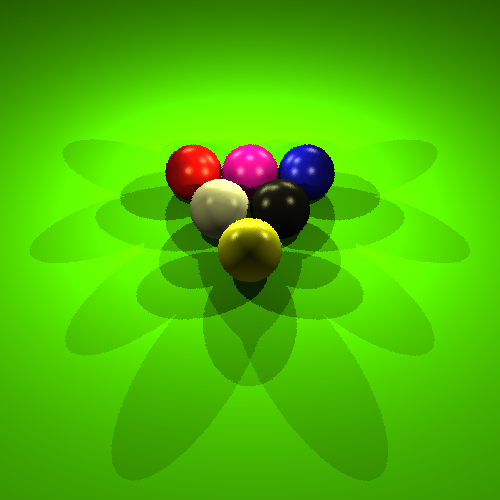
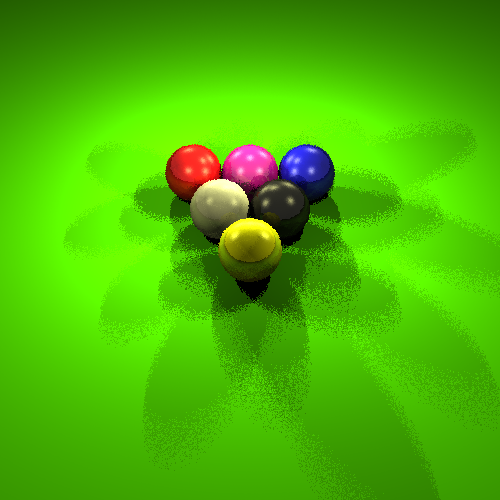
fixed shadows for transparent objects

Changed region(s): [[0.12, 0.24, 1.0, 1.0], [0.06, 0.42, 0.15, 0.54], [0.12, 0.27, 0.21, 0.36]]

diff --git a/Ray-Tracing/src/RayTrace/Scene.java b/Ray-Tracing/src/RayTrace/Scene.java
@@ -44,7 +44,8 @@ class Scene{
             return rgb;
         }
         Vector dir1, dir2;
-        int min_ind=-1, cnt=0;
+        int min_ind=-1;
+        double cnt=0;
         double temp, min_val=Double.POSITIVE_INFINITY, alpha;
         double r=0, g=0, b=0, r_spec=0, g_spec=0, b_spec=0, reflect_r=0, reflect_g=0, reflect_b=0;
         double bg_r=this.bg_r, bg_g=this.bg_g, bg_b=this.bg_b;
@@ -71,10 +72,8 @@ class Scene{
             normal = normal.prod(1/normal.size()); //make sure it is normalized
             mat = this.surfs.get(min_ind).mat;
             trans = mat.trans;
+            double light_val,light_total=1,temp2;
             double bg_rgb[], reflect_rgb[];
-            double light_trans = 1; 
-            double trans_total =0; 
-            double light_temp; 
             if(trans < 1){
                 bg_rgb = trace(new Ray(pos, camray.direct), rec-1);
                 bg_r = bg_rgb[0];
@@ -104,26 +103,37 @@ class Scene{
                 rect = new Rect(pos,dir1,dir2,lightray.light.radius,this.rays_num,lightray.light);
                 for(int x=0;x<this.rays_num;x++) {
                     for(int y=0;y<this.rays_num;y++) {
-                        // temp = Double.POSITIVE_INFINITY; 
-                        light_temp = surfs.get(min_ind).intersect(rect.raygrid[x][y]); 
-                        for(int m=0;m<this.surfs.size();m++) { 
-                            //temp = Math.min(this.surfs.get(m).intersect(rect.raygrid[x][y]),temp); 
-                          temp = this.surfs.get(m).intersect(rect.raygrid[x][y]); 
-                          if(temp >= 0 && temp < light_temp) { 
-                            light_trans*= this.surfs.get(m).mat.trans; 
-                          } 
-                        } 
-                        if(light_trans > 0.001) {  //surface isn't obscured from light source 
-                            cnt++; 
-     
-                        } 
-                        trans_total += light_trans; 
-                        light_trans = 1; 
-                    } 
+                        temp2 = Double.POSITIVE_INFINITY;
+                        light_val = this.surfs.get(min_ind).intersect(rect.raygrid[x][y]);
+                        for(int m=0;m<this.surfs.size();m++) {
+                            temp = this.surfs.get(m).intersect(rect.raygrid[x][y]);
+                            if(temp >= 0) {
+                            	temp2 = Math.min(temp2, temp);
+                                if( temp < light_val) {
+                                	light_total*= this.surfs.get(m).mat.trans;
+//                                	if(light_total > 0)
+//                                		System.out.println(light_total);
+                                	if(light_total == 0) {
+                                		break;
+                                	}
+                                }
+                            }
+
+                        }
+
+                        if(new Vector(camray.getPos(min_val),rect.raygrid[x][y].getPos(light_val)).size() > 0.001)  //object's surface is obscured from light source by the object itself
+                        	light_total*= this.surfs.get(min_ind).mat.trans;
+                       
+                        
+                        cnt+= light_total;
+                       
+                        light_total = 1;
+                    }
                 }
                 temp = (((double)(cnt)+(rays_num2-(double)(cnt))*((double)1.0-lightray.light.shadow_intens))/rays_num2);
-                temp = Math.abs(temp*normal.dot(lightray.direct))*trans_total/(rays_num2); ;
-                //System.out.println(temp);
+     
+                temp = Math.abs(temp*normal.dot(lightray.direct));
+              
                 r += lightray.light.r*temp;
     //        					lightInt[ind] /= 2;
                 //maxlight[0] = Math.max(maxlight[0], lightInt[ind]);
@@ -166,11 +176,12 @@ class Scene{
     public void Render(byte[] rgbData, int imageWidth,int imageHeight) {
         int i=0, j=0, si=0, sj=0;
         double[] lightInt = new double[rgbData.length];
-        double[] lightInt_spec = new double[rgbData.length];
-        int[] ignore = new int[this.surfs.size()];
+       // double mod=0; //need a better name
         Vector camleft = this.cam.look_v.cross(this.cam.up); //the "left direction" of the camera.
         camleft = camleft.prod(1/camleft.size()); //normalize camleft
+       // Vector pixelCord= null; //the coordinate of the pixel (bottom left corner for now, no supersampling yet)
         Vector p_0 = this.cam.look_v.prod(this.cam.screen_dist);  //the vector to pixel[0,0]
+        //mod = this.cam.look.minus(this.cam.pos).size();
         p_0 = p_0.plus(camleft.prod((double)(0.5*this.cam.screen_width)));
         int perc_pixs=imageHeight*imageWidth/100;
         int pixs=0;
@@ -179,10 +190,17 @@ class Scene{
         Vector j_step = camleft.prod((double)((-this.cam.screen_width)/((double)imageWidth*sample_lev))); 
         Vector i_step = this.cam.up.prod((double)((screen_height)/((double)imageHeight*sample_lev))); 
         Ray camray = null;
+        Ray lightray = null;
+        double min_val=Double.POSITIVE_INFINITY;
+        double temp = 0;
+        double[] maxlight =new double[3];
+        Vector dir1,dir2;
+        Rect rect;
+        Vector normal=null;
+        Double alpha =0.0;
+        Vector returning_ray;
+        int cnt=0;
         Random rand = new Random();
-       
-        
-        
         
         for(i=0;i<imageHeight;i++) {
         	for(j=0;j<imageWidth;j++) {
@@ -197,11 +215,6 @@ class Scene{
                         lightInt[ind+2] += rgb[2];
                         
                         
-                    	camray = new Ray(this.cam.pos,p_0.plus(j_step.prod((double)j*sample_lev+sj+rand.nextDouble()).plus(i_step.prod((double)i*sample_lev+si+rand.nextDouble()))));
-                    	ray_cast(camray,lightInt,lightInt_spec,ind,1,ignore);
-                    	for(int ig=0;ig< this.surfs.size();ig++) {
-                    		ignore[ig] = 0;
-                    	}
                     }
                 }
                 pixs++;
@@ -211,22 +224,7 @@ class Scene{
                 lightInt[ind+1] /= sample_lev2;
                 lightInt[ind+2] /=  sample_lev2;
             }
-                lightInt[ind] /= sample_lev*sample_lev;
-                lightInt[ind+1] /= sample_lev*sample_lev;
-                lightInt[ind+2] /=  sample_lev*sample_lev;
-                lightInt_spec[ind] /= sample_lev*sample_lev;
-                lightInt_spec[ind+1] /= sample_lev*sample_lev;
-                lightInt_spec[ind+2] /=  sample_lev*sample_lev;
-        	}
         }
-                    	
-                    	
-      System.out.println(this.bg_b);
-      
-       for(int k=0; k< rgbData.length;k++) {
-    		   rgbData[k] =(byte) Math.min(255,((1*lightInt[k])+lightInt_spec[k]));
-
-       }
         System.out.println('.');
        for(int k=0; k< rgbData.length;k++){
            rgbData[k] =(byte) (255*(Math.min(1, lightInt[k])));
@@ -234,118 +232,4 @@ class Scene{
       
     }
     
-        
-public void ray_cast(Ray camray, double[] lightInt,double[] lightInt_spec,int ind,double transp,int[] ignore) {
-	
-	double r=0, g=0, b=0, r_spec=0, g_spec=0, b_spec=0;
-   	double temp = 0,min_val =Double.POSITIVE_INFINITY;;
-    int min_ind=-1;
-    Ray lightray = null;
-    Vector dir1,dir2;
-    Rect rect;
-    Vector normal=null;
-    Double alpha =0.0;
-    Vector returning_ray;
-    int cnt=0;
-        
-    for(int k=0;k< this.surfs.size();k++) {
-        temp = this.surfs.get(k).intersect(camray);
-        if(temp >= 0 && temp < min_val && ignore[k] == 0) {
-            min_ind = k;
-            min_val = temp;
-        }
-    }
-
-    if(min_ind > -1) {
-    	
-    	//adding transparency color
-    	if(this.surfs.get(min_ind).mat.trans > 0) {
-    		ignore[min_ind] = 1;
-    		ray_cast(camray,lightInt,lightInt_spec,ind,transp*this.surfs.get(min_ind).mat.trans,ignore);
-    		ignore[min_ind] = 0;
-    	}
-        normal = this.surfs.get(min_ind).normal(camray.direct.prod(min_val).plus(camray.src));
-        normal = normal.prod(1/normal.size()); //make sure it is normalized
-
-        for(int k=0; k<this.lights.size();k++) {
-        	
-            lightray = new Ray(this.lights.get(k).pos, new Vector(this.lights.get(k).pos,camray.getPos(min_val)),this.lights.get(k));
-            returning_ray = camray.direct.minus(normal.prod(normal.dot(camray.direct)));
-            returning_ray = normal.prod(-normal.dot(camray.direct)).plus(returning_ray);
-            returning_ray = returning_ray.prod(1/returning_ray.size());
-            alpha = returning_ray.dot(lightray.direct);      
-            alpha = Math.pow(Math.abs(alpha), this.surfs.get(min_ind).mat.phong);        
-            dir1 = lightray.direct.getPerp();
-            dir2 = lightray.direct.cross(dir1);
-            rect = new Rect(camray.getPos(min_val),dir1,dir2,lightray.light.radius,this.rays_num,lightray.light);
-            double light_trans = 1;
-            double trans_total =0;
-            double light_temp;
-            
-            for(int x=0;x<this.rays_num;x++) {
-                for(int y=0;y<this.rays_num;y++) {
-                   // temp = Double.POSITIVE_INFINITY;
-                    light_temp = surfs.get(min_ind).intersect(rect.raygrid[x][y]);
-                    for(int m=0;m<this.surfs.size();m++) {
-                        //temp = Math.min(this.surfs.get(m).intersect(rect.raygrid[x][y]),temp);
-                    	temp = this.surfs.get(m).intersect(rect.raygrid[x][y]);
-                    	if(temp >= 0 && temp < light_temp) {
-                    		light_trans*= this.surfs.get(m).mat.trans;
-                    	}
-                    }
-                    if(light_trans > 0.001) {  //surface isn't obscured from light source
-                        cnt++;
-
-                    }
-                    trans_total += light_trans;
-                    light_trans = 1;
-                }
-            }
-            
-            temp = (double) this.rays_num*this.rays_num;
-            temp = (((double)(cnt)+(temp-(double)(cnt))*((double)1.0-lightray.light.shadow_intens))/temp);
-            temp = Math.abs(temp*normal.dot(lightray.direct))*trans_total/((double)this.rays_num*this.rays_num);
-            //System.out.println(temp);
-            
-            r += lightray.light.r*temp;
-            g += lightray.light.g*temp;
-            b += lightray.light.b*temp;
-
-            temp = (double) this.rays_num*this.rays_num;
-            temp = (double)cnt/temp;
-            r_spec += lightray.light.spec_intens*lightray.light.r*alpha*temp;
-            g_spec += lightray.light.spec_intens*lightray.light.g*alpha*temp;
-            b_spec += lightray.light.spec_intens*lightray.light.b*alpha*temp;
-
-            cnt=0;
-        }
-        
-
-        r =  (this.surfs.get(min_ind).mat.diff_r*255*(r))*transp*(1-this.surfs.get(min_ind).mat.trans);
-        g = (this.surfs.get(min_ind).mat.diff_g*255*(g))*transp*(1-this.surfs.get(min_ind).mat.trans);
-        b =  (this.surfs.get(min_ind).mat.diff_b*255*(b))*transp*(1-this.surfs.get(min_ind).mat.trans);
-        r_spec =  (this.surfs.get(min_ind).mat.spec_r*255*(r_spec))*transp*(1-this.surfs.get(min_ind).mat.trans);
-        g_spec = (this.surfs.get(min_ind).mat.spec_g*255*(g_spec))*transp*(1-this.surfs.get(min_ind).mat.trans);
-        b_spec =  (this.surfs.get(min_ind).mat.spec_b*255*(b_spec))*transp*(1-this.surfs.get(min_ind).mat.trans);
-    }
-    else {
-        r =  (this.bg_r*255);
-        g = (this.bg_g*255);
-        b =  (this.bg_b*255);
-    }
-    min_ind =-1;
-    min_val = Double.POSITIVE_INFINITY;
-    lightInt[ind] += r;
-    lightInt[ind+1] += g;
-    lightInt[ind+2] += b;
-    lightInt_spec[ind] += r_spec;
-    lightInt_spec[ind+1] += g_spec;
-    lightInt_spec[ind+2] += b_spec;
-
-   }
 }
-
-
-                
-
-        	
